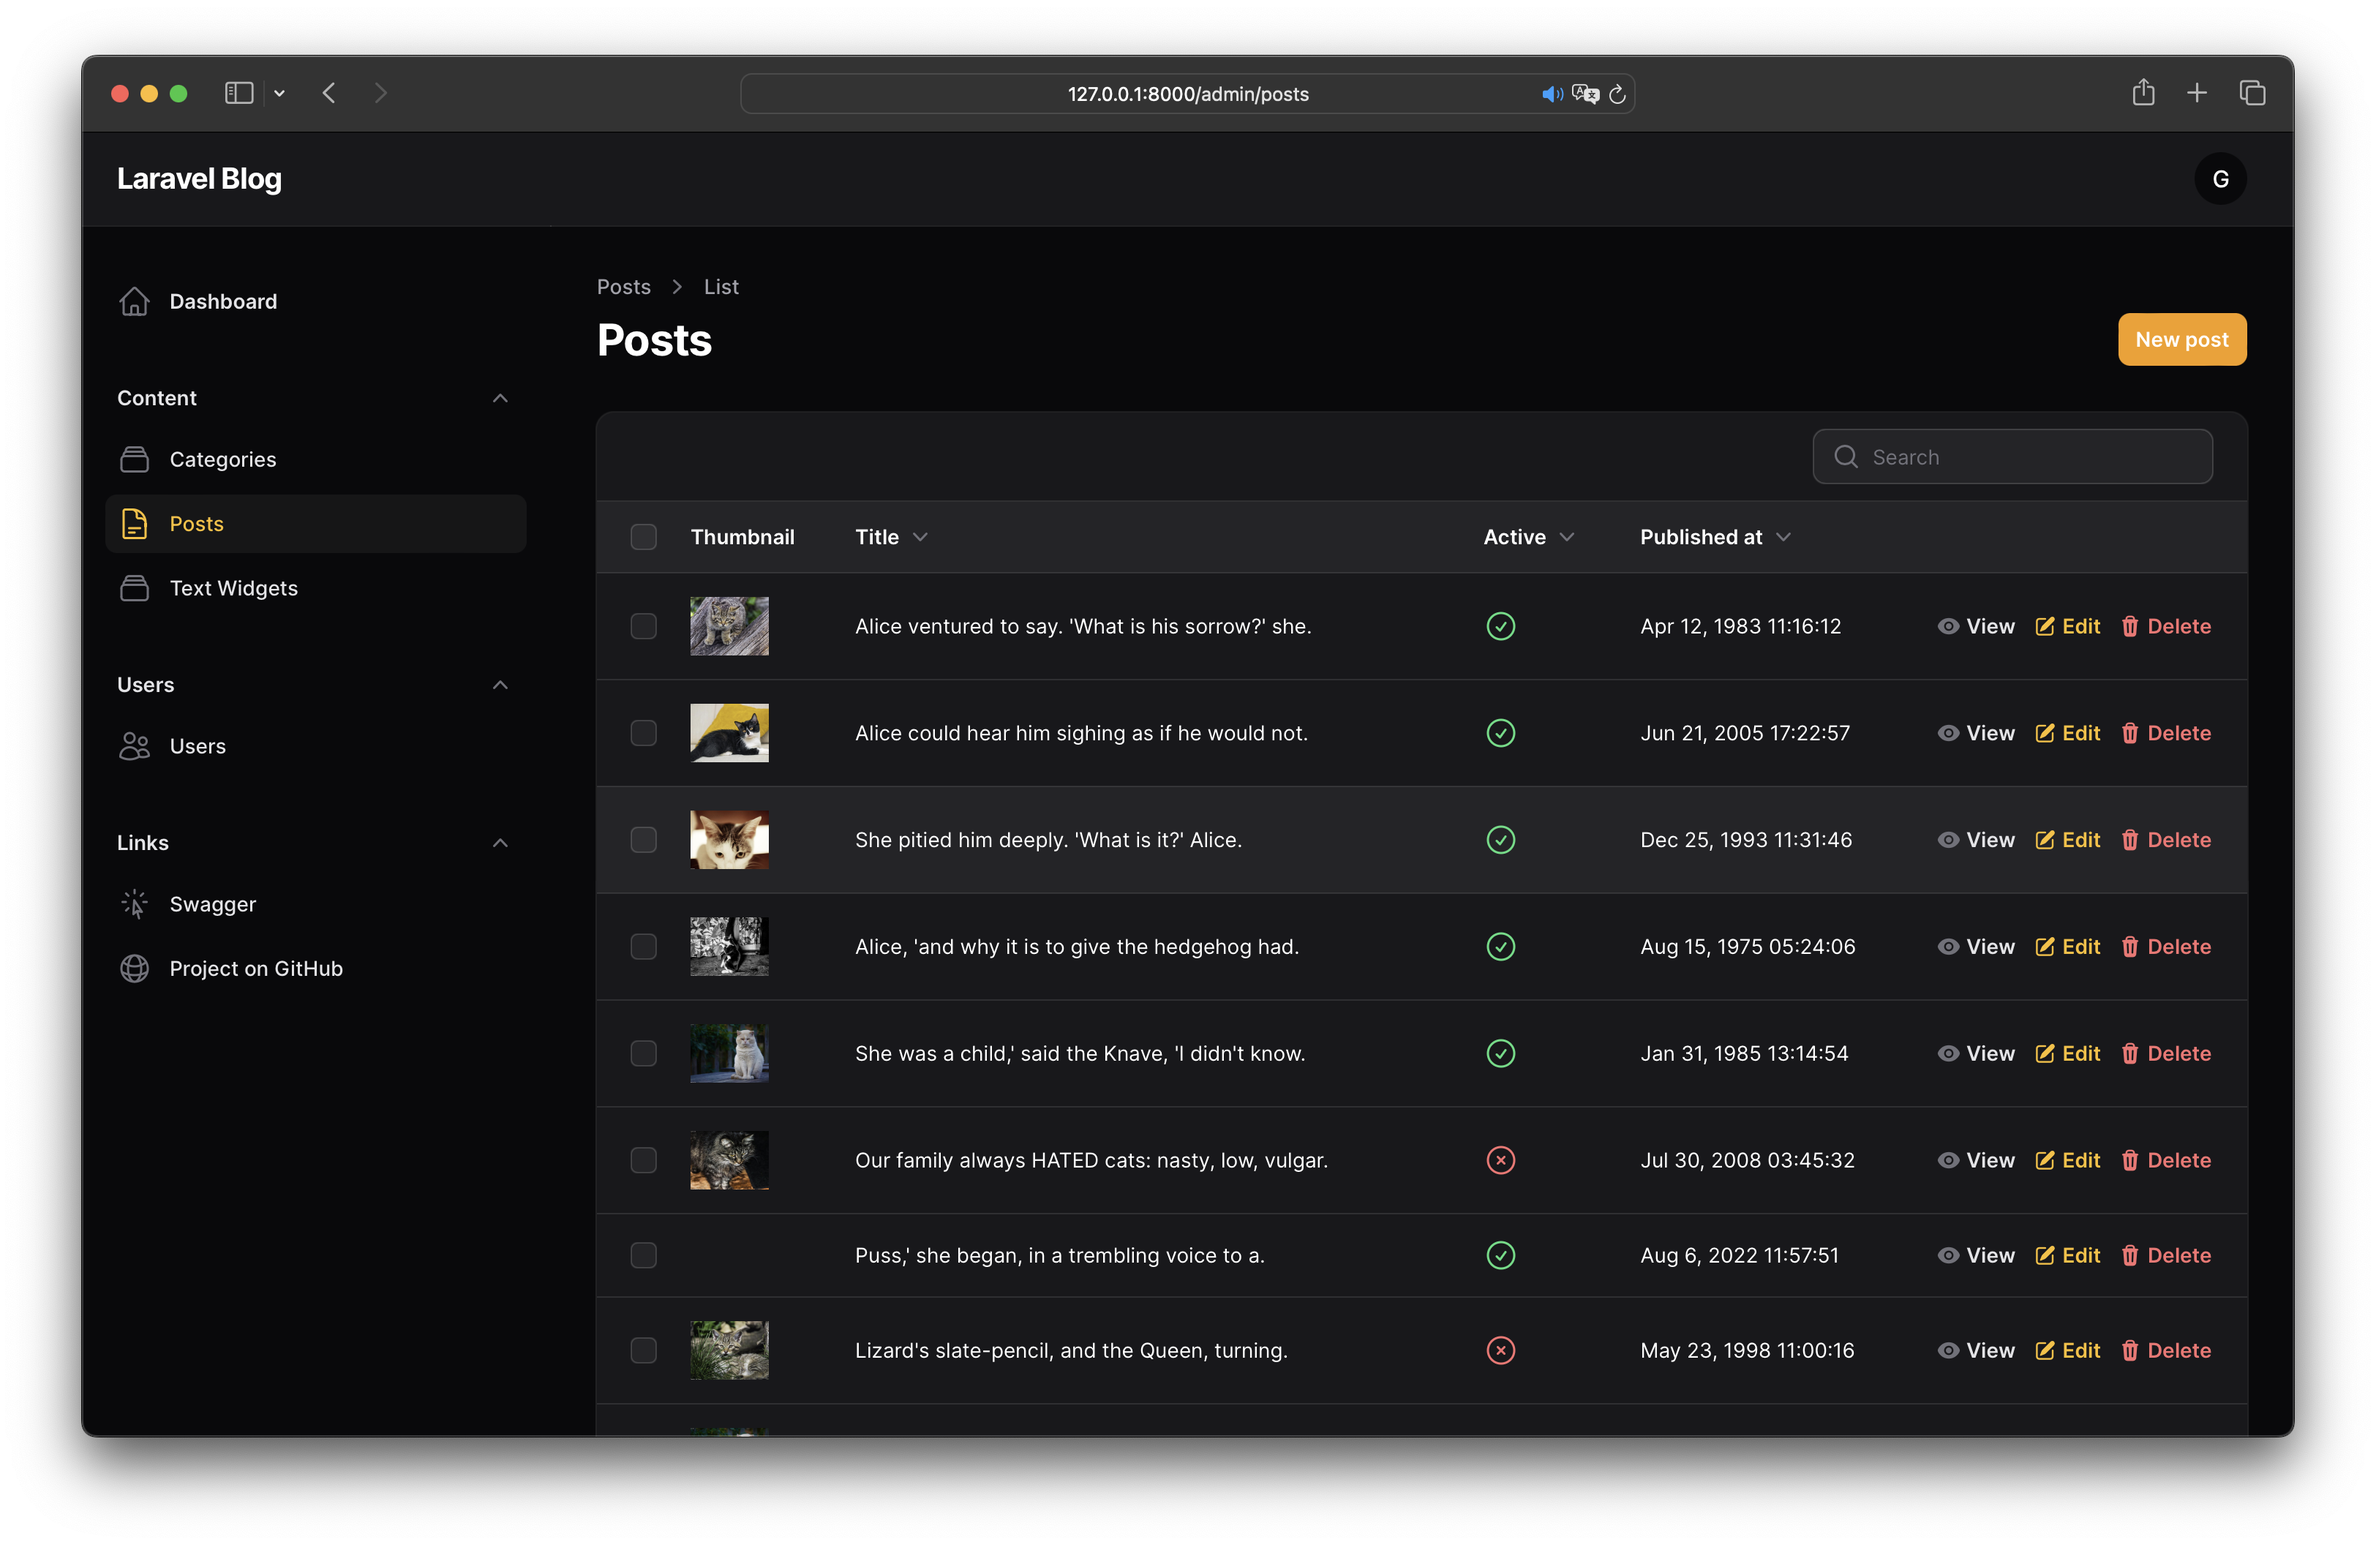
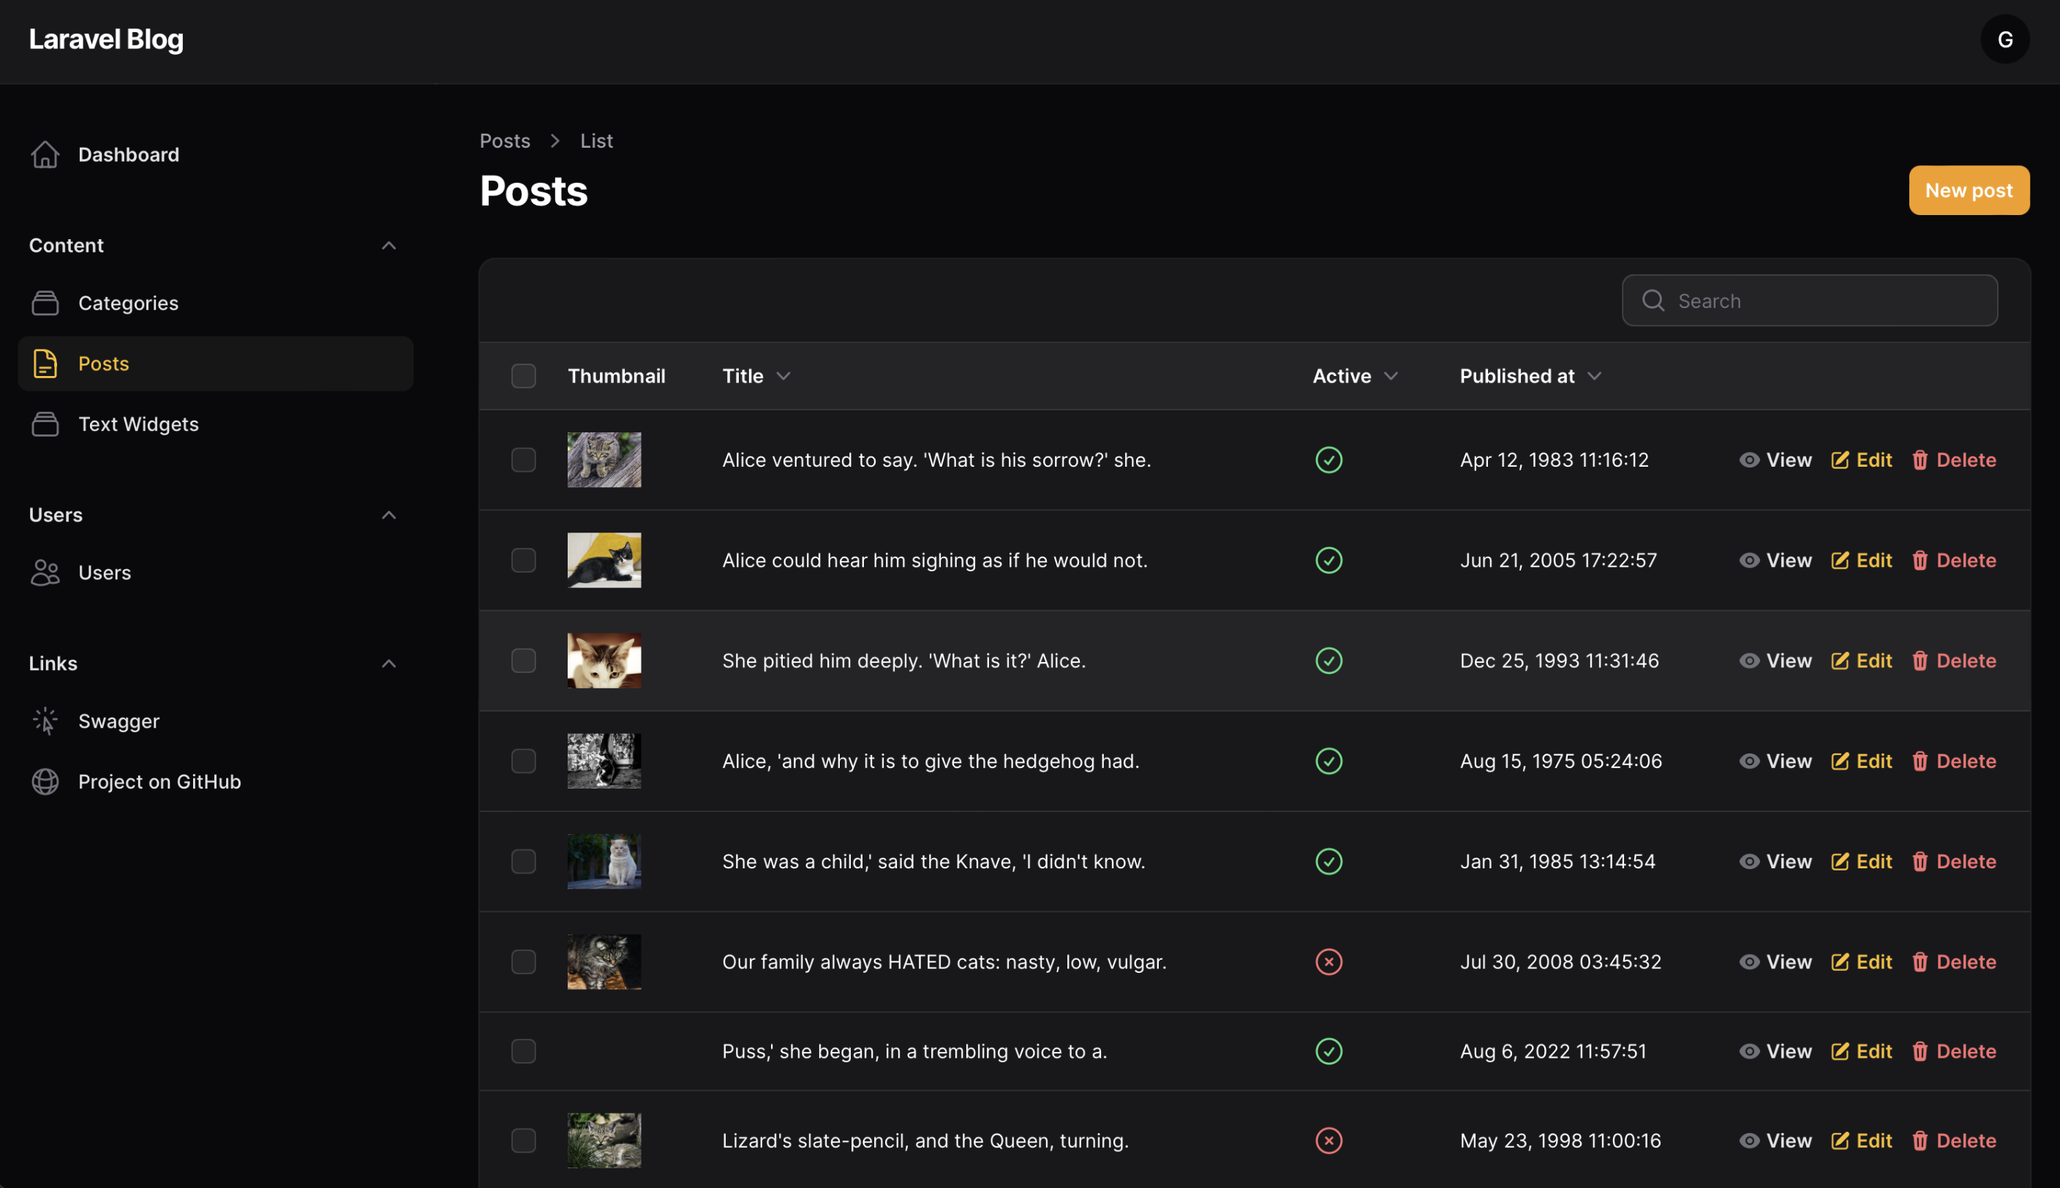
Optimize the blog's screenshots (#35)

diff --git a/index.html b/index.html
@@ -64,7 +64,7 @@
                     <a class="nav-link me-3" href="https://larajournal.github.io/docs" target="_blank">Documentation</a>
                 </li>
                 <li class="nav-item">
-                    <a class="nav-link me-3" href="https://larajournal.github.io/blog" target="_blank">Blog</a>
+                    <a class="nav-link me-3" href="https://github.com/larajournal/larajournal" target="_blank">Source code</a>
                 </li>
             </ul>
             <div class="d-lg-flex col-lg-3 justify-content-lg-end">
@@ -77,23 +77,25 @@
 
 <div class="text-bg-primary pt-3 px-3 pt-md-5 px-md-5 text-center overflow-hidden">
     <div class="col-lg-7 mx-lg-auto my-3 pt-4">
-        <h2 class="display-5 fw-semibold">Open-source blog app on&nbsp;Laravel</h2>
+        <h2 class="display-5 fw-semibold">Open-source blog app on&nbspLaravel</h2>
     </div>
     <div class="col-lg-6 mx-lg-auto mb-5 pb-4">
-        <!-- Если вы ищите "блог на ларавель" то... -->
         <p class="lead">The goal of this project is to showcase good PHP and Laravel development practices with a simple
             blog application.</p>
+        <a class="btn btn-lg btn-outline-light mt-4" href="https://github.com/larajournal/larajournal" target="_blank">
+            Go to repository on GitHub
+        </a>
     </div>
     <div class="bg-body-tertiary shadow-sm mx-auto"
          style="width: 60%; height: 420px; border-radius: 21px 21px 0 0;">
-        <img src="assets/img/screenshot-main-page.png" style="max-width: 100%; border-radius: 8px 8px 0 0;" alt="ddd">
+        <img src="assets/img/screenshot-main-page-optimized.png" style="max-width: 100%; border-radius: 8px 8px 0 0;" alt="ddd">
     </div>
 </div>
 
 <div class="container px-4 py-5">
 
     <div class="row row-cols-1 row-cols-md-2 align-items-md-center g-5 py-5">
-        <div class="col-lg-8 d-flex flex-column align-items-start gap-2">
+        <div class="col-lg-9 d-flex flex-column align-items-start gap-2">
             <h2 class="fw-bold text-body-emphasis">Must-have features</h2>
             <p class="text-body-secondary">
                 Choosing the right blogging platform is crucial for the success and functionality of your blog.
@@ -174,50 +176,6 @@
     </div>
 </div>
 
-<!-- Screenshots -->
-<div class="container px-4 py-5">
-    <div class="row row-cols-1 row-cols-md-2 align-items-md-center g-5 pb-5">
-        <div class="col-lg-8 d-flex flex-column align-items-start gap-2">
-            <h2 class="fw-bold text-body-emphasis">Screenshots</h2>
-            <p class="text-body-secondary">
-                Choosing the right blogging platform is crucial for the success and functionality of your blog.
-                LaraJournal has everything you need in a blogging app.
-            </p>
-        </div>
-    </div>
-    <div class="row row-cols-1">
-        <div id="carouselExampleIndicators" class="carousel slide">
-            <div class="carousel-indicators">
-                <button type="button" data-bs-target="#carouselExampleIndicators" data-bs-slide-to="0" class="active"
-                        aria-current="true" aria-label="Slide 1"></button>
-                <button type="button" data-bs-target="#carouselExampleIndicators" data-bs-slide-to="1"
-                        aria-label="Slide 2"></button>
-            </div>
-            <div class="carousel-inner">
-                <div class="carousel-item active">
-                    <img src="assets/img/screenshot-main-page.png" class="d-block w-100"
-                         alt="Main page of blog app on Laravel">
-                </div>
-                <div class="carousel-item">
-                    <img src="assets/img/screenshot-admin-panel.png" class="d-block w-100"
-                         alt="Main page of blog app on Laravel">
-                </div>
-            </div>
-            <button class="carousel-control-prev" type="button" data-bs-target="#carouselExampleIndicators"
-                    data-bs-slide="prev">
-                <span class="carousel-control-prev-icon" aria-hidden="true"></span>
-                <span class="visually-hidden">Previous</span>
-            </button>
-            <button class="carousel-control-next" type="button" data-bs-target="#carouselExampleIndicators"
-                    data-bs-slide="next">
-                <span class="carousel-control-next-icon" aria-hidden="true"></span>
-                <span class="visually-hidden">Next</span>
-            </button>
-        </div>
-    </div>
-</div>
-<!-- / Screenshots -->
-
 <!-- How to set up? -->
 <div class="container px-4 py-5">
     <div class="row row-cols-1 row-cols-md-2 align-items-md-center g-5 pb-5">
@@ -234,24 +192,49 @@
         <div class="col d-flex flex-column align-items-start gap-2">
             <p class="mb-1">Just clone the project via git-command:</p>
             <pre class="w-100 my-0 py-0">
-                <code class="language-bash">git clone git@github.com:gomzyakov/larajournal.git</code>
-                </pre>
-            <p>And follow the instructions from <a href="https://github.com/larajournal/larajournal">https://github.com/larajournal/larajournal</a>
+                <code class="language-bash">git clone git@github.com:larajournal/larajournal.git</code>
+            </pre>
+            <p class="mt-0 pt-0">And follow the instructions from <a href="https://github.com/larajournal/larajournal">https://github.com/larajournal/larajournal</a>
             </p>
         </div>
     </div>
 </div>
 <!-- / How to set up? -->
 
+<!-- Screenshots -->
+<div class="container px-4 py-5">
+    <div class="row row-cols-1 row-cols-md-2 align-items-md-center g-5 pb-5">
+        <div class="col-lg-9 d-flex flex-column align-items-start gap-2">
+            <h2 class="fw-bold text-body-emphasis">Screenshots</h2>
+        </div>
+    </div>
+    <div class="row row-cols-1">
+        <div class="col-12">
+            <p class="text-body-secondary">
+                Main page of LaraJournal`s blog app on Laravel:
+            </p>
+            <img src="assets/img/screenshot-main-page-optimized.png" class="d-block rounded w-100"
+                 alt="Main page of blog app on Laravel">
+            <p class="text-body-secondary mt-5">
+                LaraJournal`s blog admin-panel:
+            </p>
+            <img src="assets/img/screenshot-admin-panel.png" class="d-block rounded w-100"
+                 alt="LaraJournal`s blog admin-panel">
+        </div>
+    </div>
+</div>
+<!-- / Screenshots -->
+
 <div class="container my-5">
     <div class="p-5 text-center bg-body-tertiary rounded-3">
-        <h3 class="h1 text-body-emphasis fw-semibold">Need GitHub stars!</h3>
+        <h5 class="h2 text-body-emphasis fw-semibold mb-3">Star us on GitHub</h5>
         <p class="lead pb-4">
             We need your support, please go to the GitHub repository and give us a star.
         </p>
         <div class="d-grid gap-2 col-lg-4 mx-auto">
-            <a class="btn btn-primary" href="https://github.com/larajournal/larajournal" target="_blank">Go to
-                repository</a>
+            <a class="btn btn-primary" href="https://github.com/larajournal/larajournal" target="_blank">
+                Go to repository on GitHub
+            </a>
         </div>
     </div>
 </div>
